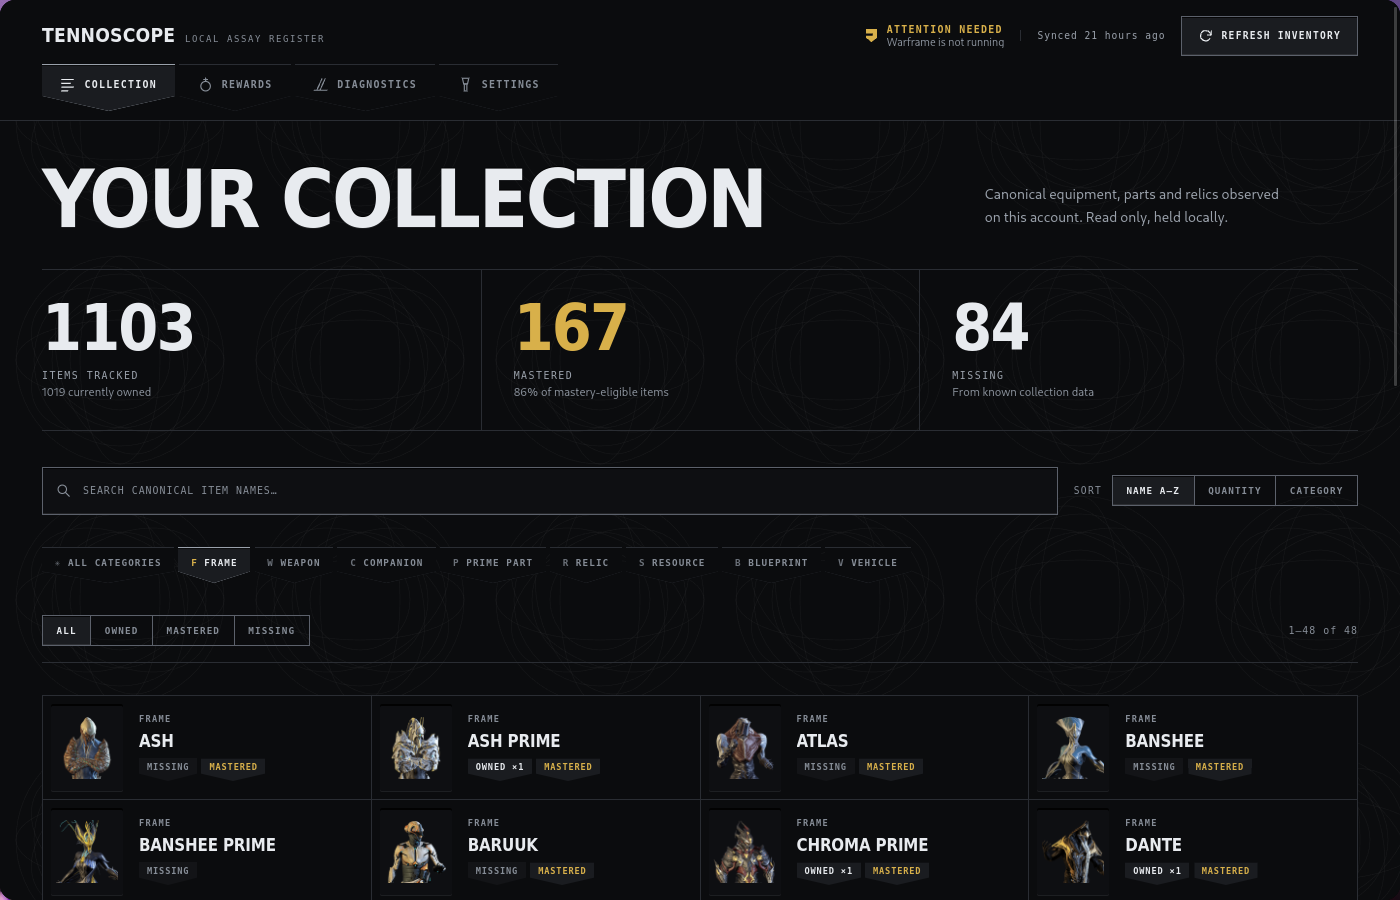
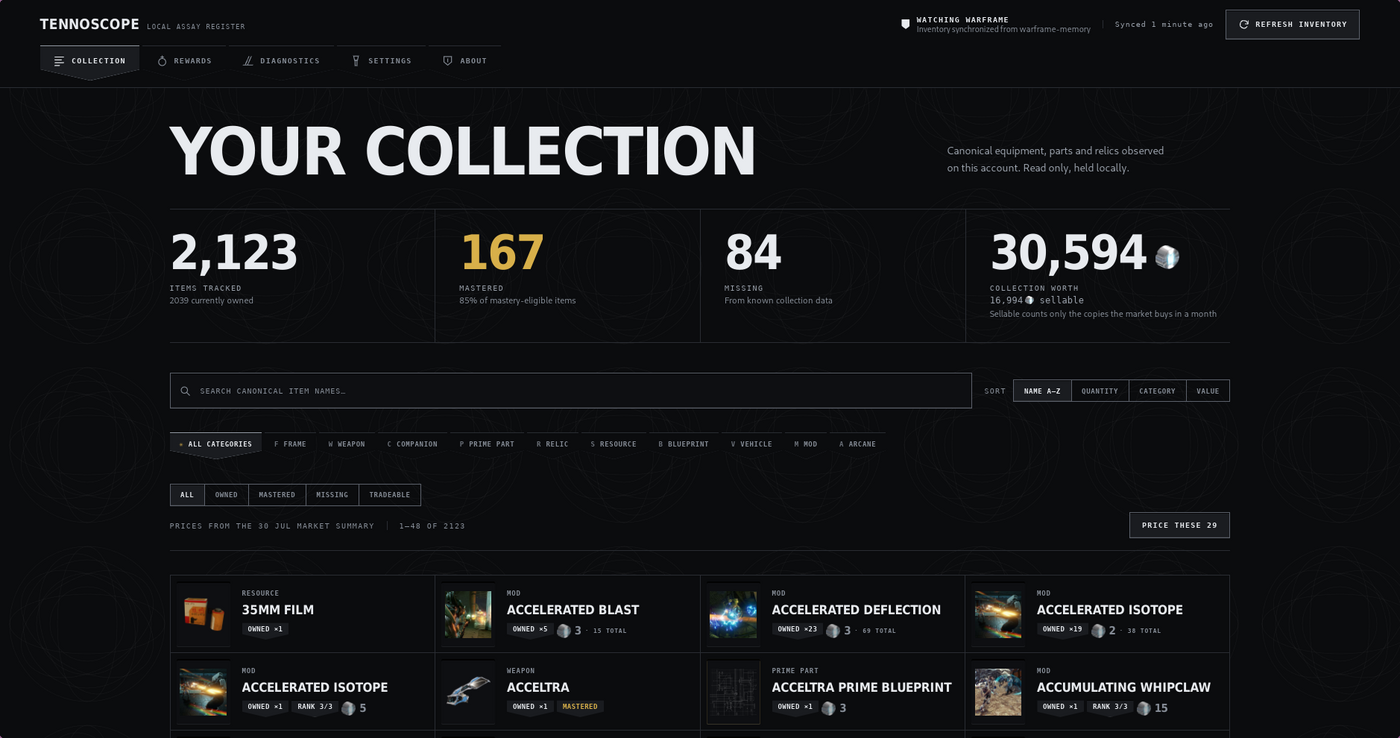
docs: strip account figures from the pricing design, refresh the screenshot
The design doc argued its thresholds with one inventory's totals -- what
it held, what it was worth, what the cap took off it. The ratios are what
justify the constants; the absolute platinum never did. Dump-wide and
warframe.market figures stay, because those describe the market.

The collection screenshot was still 0.1.0: no pricing, no mod or arcane
category, no About tab.

diff --git a/docs/design/collection-platinum-pricing.md b/docs/design/collection-platinum-pricing.md
@@ -23,11 +23,11 @@ Measured on 2026-07-29, and the source of the constants and rules below.
 | `sell`/`closed` median ratio, matched on `(subtype, rank)` | median 1.17x, 144 pairs at ≥2x, 24 at ≥4x | The bulk-lot inflation is visible in the file itself, and only in `sell` |
 | `closed` records quoting >1.5x their own ask | 15 of 3,179 pairs; 1 survives a `volume >= 3` floor | The floor is necessary and not sufficient. `Vitality` unranked: 115p closed on 4 trades against a 1p ask on 3,186 listings. Taking the lower of the two removes all 15 |
 | Relics with a usable `closed` record | 163 of 772 on one day, 425 across four | One day prices 45% of a real collection's relics; 28 days unioned price 96% |
-| A real collection's relic holding | 71 rows, 202 copies, 391p | 1.4% of the collection, against ~70 requests and 22s per launch to sweep it |
+| A test collection's relic holding | 1.4% of its priced worth | Against ~70 requests and 22s per launch to sweep it |
 | Newest dump on 2026-07-29 | `price_history_2026-07-27.json` | The fetcher walks back from today; the data is a day or two old by construction |
 | Three name rules, no manifest | 2,940 of 3,835 dump items reachable from the 15,972 catalog names | Name matching alone is enough |
-| A fourth rule appending ` Blueprint` | 25 firings against a real 1,106-item collection, 25 of them wrong, 0 right | Rejected: it prices built equipment at its blueprint's listing |
-| Prime parts in that collection | 75 of 75 resolved by rule 1 | The rejected rule had nothing left to reach |
+| A fourth rule appending ` Blueprint` | 25 firings against a test collection, 25 of them wrong, 0 right | Rejected: it prices built equipment at its blueprint's listing |
+| Prime parts in that collection | All resolved by rule 1 | The rejected rule had nothing left to reach |
 | `/v2/items` manifest on top | 257 more, 228 of them sets | Rejected: its entire contribution is items that must not be priced |
 | Mirage Prime Systems, dump median sell | 20p, against 19p live from an online seller | The daily median tracks the live number closely |
 | Mirage Prime Systems, dump minimum sell | 10p | Rejected: the day's cheapest listing includes offline lowballers |
@@ -39,9 +39,9 @@ Measured on 2026-07-29, and the source of the constants and rules below.
 | Refinement tiers with an ingame seller, over 80 relics | intact 85%, radiant 39%, exceptional 0%, flawless 0% | A tier is priced from its own subtype where anyone is selling it, and from intact where nobody is |
 | Radiant against intact where both are quotable | median 1.46x, worst 17x (Requiem I–IV, 1p intact against 17p radiant) | Pricing every tier at intact is not a rounding error |
 | Listings quoted at one rank above 0 and no other | 7 of 3,835, all 80–300p (`Scan Matter` 240p, `Sword Alone` 300p) | An unranked copy has no price from such a listing rather than the maxed one, which valued a 0/3 `Scan Matter` at 240p |
-| A real collection's priced holding | 1,215 rows, 7,982 copies, 30,817p | The total is dominated by bulk commons, not by anything concentrated: the largest single stack is 364p |
-| The same collection capped at a month of completed trades | 24,086p, 89 rows capped | What the market will actually take is 22% under the market rate |
-| That capped total by unit price | 14,936p of it at 1–5p, 6,708p at 11p+ | The cap does not answer "this is too high" on its own: the cheap end is cheap *and* genuinely traded. A price floor at 6p would take it to 9,150p and delete `Intruder` ×104 at a true 3p |
+| A test collection's priced holding | Several thousand copies over ~1,200 rows | The total is dominated by bulk commons, not by anything concentrated: no single stack is more than about 1% of it |
+| The same collection capped at a month of completed trades | 89 rows capped | What the market will actually take is 22% under the market rate |
+| That capped total by unit price | About three-fifths of it at 1–5p | The cap does not answer "this is too high" on its own: the cheap end is cheap *and* genuinely traded. A 6p floor would cut it by nearly two thirds and delete `Intruder`, which is a true 3p against 104 completed trades a month |
 | `closed` volume for one item on one day against 28 | `Intruder` 0 on the 30th, 159 across the month; `Quickdraw` 2 across the month | A day's dump is a sparse sample of appetite. Reading one day understated the sellable total by a quarter and moved it ±11%; carrying the last day that *saw* a trade overstated `Quickdraw` at 30/month against a true 2 |
 
 The rejected manifest is the load-bearing negative result. Its unique contribution is warframe.market
@@ -89,9 +89,9 @@ tuned constant: a lot-inflated ask always loses to the trade, and a freak trade 
 ask. The volume floor stays, because it is the only guard against a thin trade reading *low*, where
 the ask cannot help.
 
-Left uncaught, that one record cost 3,955p of a real 27,150p collection: `Vitality`'s rank-0 group
-took the 115p trade, its rank-10 group fell back to a 35p ask, and the cross-group minimum then
-priced 113 unranked copies at a rank nobody in the collection held.
+Left uncaught, that one record cost about a seventh of a test collection's total: `Vitality`'s rank-0
+group took the 115p trade, its rank-10 group fell back to a 35p ask, and the cross-group minimum then
+priced every unranked copy at a rank nobody in the collection held.
 
 Preferring closed does change every price, not only the bulk-listed ones. Where neither number is a
 lot, closed is still a median 0.83x sell, because closed is what a buyer paid and sell is what a
@@ -126,11 +126,11 @@ the gap, in order, with no network call between them:
 
 There is deliberately no mirror of rule 2 appending ` Blueprint`. It looks symmetrical and it is not:
 the names it reaches are *built* equipment, and a built Warframe is not a thing anybody can sell.
-Measured against a real 1,106-item collection it fired 25 times -- `Ash Prime` at its blueprint's
+Measured against a test collection it fired 25 times -- `Ash Prime` at its blueprint's
 14p, `Octavia Prime` at 50p, `Banshee Prime` at 10p on an item the player does not own -- and was
 wrong all 25 times, with no correct firing anywhere in the collection. Every prime part the player
 can actually sell is in the dump under its own name and resolves by rule 1. Dropping the
-rule took the collection from 266 priced items to 241, and all 25 lost were false prices.
+rule cost 25 priced items, and all 25 were false prices.
 
 Rule 3 recovers 772 relic names that no other rule reaches, and prices the ones that traded. A
 relic is the worst case for the bulk-lot fault -- sellers list them six at a time, so the ask runs
@@ -147,7 +147,7 @@ collection goes 45% at one dump, 76% at three, 86% at seven, 96% at twenty-eight
 days is a download the app already makes, so the union costs nothing.
 
 **This is what removed the startup sweep.** The sweep spent about 70 requests and 22 seconds of
-every launch to refine a holding worth 391p -- 1.4% of the collection -- and the union now answers
+every launch to refine a holding worth 1.4% of the collection -- and the union now answers
 96% of it for free. The live path remains, but only where the player points it: the page refresh.
 A relic no dump in the last month saw trade shows the honest dash it always did, and one click
 prices it.
@@ -226,8 +226,8 @@ There used to be a second trigger -- a relic sweep at every launch and after eve
 about 70 requests and 22 seconds, because the dump's relic ask was unusable and nothing else was on
 offer. It is gone. The `closed` statistics gave relics a real dump price, and unioning the daily
 dumps (see Price Source) covers 96% of a real collection's relics for no request at all. The last
-few percent were never worth 22 seconds of every launch against a 391p holding, and a player who
-wants them has a button.
+few percent were never worth 22 seconds of every launch against 1.4% of a collection's worth, and a
+player who wants them has a button.
 
 This is not a sweep of the collection. Nothing is fetched for an item the player does not own, and
 nothing at all is fetched without a click, which is what keeps a feature that could have cost a
@@ -322,7 +322,7 @@ deliberately *not* told apart on the card. That is a real corner cut: an item pr
 completed trades and one priced from an untested asking price both read as "from the 2026-07-30
 dump". It stays cut because the distinction is not one a player can act on -- both are the same
 day-old file, and the live check is the affordance for wanting better -- while a third provenance
-state on every card is a visible cost on all 3,209 of them. Add it if the ask fallback ever proves
+state on every card is a visible cost on every one of them. Add it if the ask fallback ever proves
 to be misleading in a way the volume floor does not catch.
 
 "Checked live" covers both the fifteen-minute cache and a persisted checked price, deliberately.
@@ -361,9 +361,10 @@ newest one started, so an older response can never land on top of a newer one.
 
 Every unit price above can be right and the collection's total still be a number nobody could
 realise. warframe.market is not an order book: a trade is arranged in chat and completed by two
-players standing in a dojo, one item at a time. 7,982 copies at a correct 1–5p each is 21,837p that
-would take years of evenings to collect, and 182 Quickdraws is not 364p of platinum, it is 364p of
-platinum that the two people who wanted a Quickdraw this month already have.
+players standing in a dojo, one item at a time. Several thousand copies at a correct 1–5p each is a
+five-figure total that would take years of evenings to collect, and two hundred `Quickdraw` is not
+400p of platinum, it is 400p of platinum that the two people who wanted a `Quickdraw` this month
+already have.
 
 So the collection's headline worth is each stack at its unit price times the *smaller* of what is
 owned and what the whole game completes in a month. The market rate stays beside it, unchanged.
@@ -377,7 +378,7 @@ trade in the game for that item -- and that is the right direction for a bound t
 
 Appetite is averaged across the dumps seen, not read off today's file, because a day's dump samples
 the market as thinly for volume as it does for price. Both plainer readings are biased and both were
-measured on a real account: today's count alone understated the sellable total by about a quarter and
+measured on a test collection: today's count alone understated the sellable total by about a quarter and
 swung it a tenth with whichever listings happened to trade that morning, since `Intruder` completed
 159 trades in twenty-eight days and has no `closed` record at all on the 30th. Carrying the last
 count *seen* overstates by the same mechanism inverted -- it conditions on a day where a trade
@@ -388,7 +389,7 @@ cache is a file rewritten on every checked price and several thousand counts per
 than the figure they support is worth. Each dump gets an equal share until a month of them have been
 seen and a thirtieth after that. The equal share is what makes it converge: weighting today at a flat
 thirtieth from the first day leaves the very first dump 40% of the estimate a month later, which is
-how the same real account read `Quickdraw` at 15 a month. A residual overstatement remains, since an
+how the same measurement read `Quickdraw` at 15 a month. A residual overstatement remains, since an
 item's average begins on the first day it was seen to trade and so discards the leading zeros -- it
 puts `Quickdraw` at 3 rather than 2, which changes no decision anybody makes.
 
@@ -396,22 +397,23 @@ The counts expire on the same thirty-day boundary as the carried relic prices, d
 dump that saw a trade rather than the last one processed, so an item nobody has bought in a month
 drops out entirely instead of decaying towards zero forever.
 
-The cap is not enough on its own, and what is left over is not a measurement problem. 14,936p of one
-real account's 24,086p is items priced at 1–5p, and the volume cap barely touches them because the
+The cap is not enough on its own, and what is left over is not a measurement problem. About
+three-fifths of a test collection's sellable total is items priced at 1–5p, and the volume cap
+barely touches them because the
 market genuinely does complete those trades: `Redirection` 68 a month, `Intruder` 104. The tempting
 second cut -- write off anything under some price -- is not something this design can decide. It
 would be the only invented constant where everything else is measured, and any constant it picked
-would be wrong for somebody: at a 6p floor the account loses `Intruder` ×104 at a true 3p, which is
-312p that demonstrably moves, and for a player who will not spend an evening on 3p mods that 312p is
-correctly gone.
+would be wrong for somebody: at a 6p floor the collection loses `Intruder` at a true 3p against 104
+completed trades a month, platinum that demonstrably moves, and for a player who will not spend an
+evening on 3p mods it is correctly gone.
 
 So the floor exists and belongs to the player. A slider in Settings, 0 to 20 platinum, applied to the
 sellable figure and never to the market rate: a stack whose copies are worth less than the floor
 stops counting. Zero is the default, which is the measured answer with nothing invented on top of it.
 The slider stops at 20 because above roughly that point the figure stops answering -- every floor
 from 21p up lands within a few percent of the last, since all that is left by then is the few dozen
-items anybody would trade one at a time (3p → 21,369p, 6p → 9,150p, 11p → 6,708p, 16p → 5,459p,
-21p → 4,309p). The floor is a display preference over a figure the frontend already computes, so it
+items anybody would trade one at a time. The floor is a display preference over a figure the
+frontend already computes, so it
 lives in the window's own storage rather than in SQLite; putting it in the database would mean a
 migration, an IPC pair and a round trip to move a slider.
 
@@ -425,7 +427,7 @@ The band's worth cell is two figures and one clause: the market rate as the stru
 total under it at the size of a qualification, and the cap that produced it as the note. Market rate
 leads because it is the plain reading of what is owned; the capped figure is the thing that needs
 explaining. Both figures carry the game's own platinum icon -- the sellable line sits in the slot the
-three cells beside it fill with item counts, and without the icon a bare `16,994 sellable` reads as
+three cells beside it fill with item counts, and without the icon a bare `sellable` figure reads as
 one more count. The icon is set to the line's own `1em` there rather than to the figure's, since a
 mark sized for a 2rem total beside 0.72rem text is a badge, not a unit. The note names the cap in the
 terms the reader has -- copies the market buys in a month -- rather than in the dump's own vocabulary
@@ -438,7 +440,7 @@ untradeable, which is not a fact about worth. And the trade count was there to s
 free, a job the price floor now does directly and adjustably. The cap, and the floor when one is set,
 is stated in the cell's own note rather than on the register line among the filters, where it was
 answering a question the reader had not been given yet. The per-card treatment is deliberately left
-alone; how much of one stack the market takes is a fact about 89 cards out of 1,215, and putting a
+alone; how much of one stack the market takes is a fact about a small minority of cards, and putting a
 hallmark on all of them to serve those would cost more attention than the band total's haircut is
 worth explaining twice.
 
